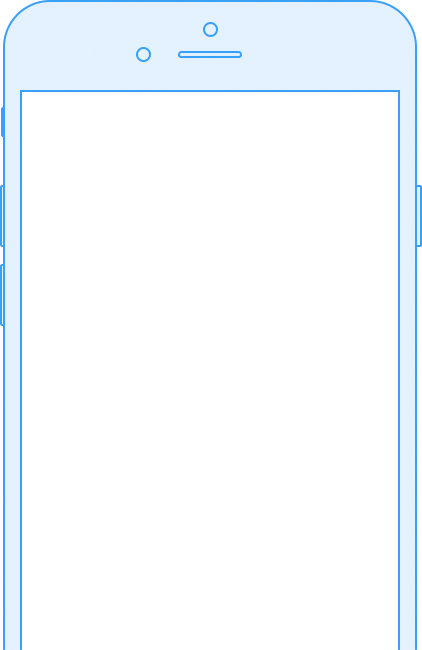
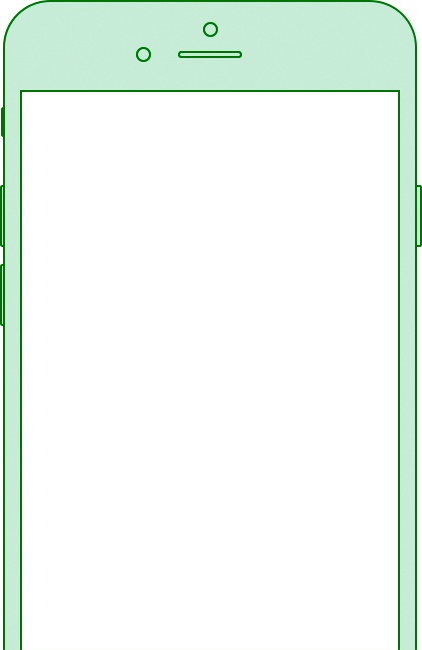
SMS greenish

Changed region(s): [[0.0, 0.0, 1.0, 1.0]]

diff --git a/web/sms/src/components/Home.vue b/web/sms/src/components/Home.vue
@@ -14,7 +14,7 @@
               that never used <b>XRP Text</b> before.
             </p>
 
-            <a href="#learn" class="btn btn-primary btn-lg"><i class="fa fa-info"></i> Learn more</a>
+            <a href="#learn" class="btn btn-success btn-lg"><i class="fa fa-info"></i> Learn more</a>
             <br /><br />&nbsp;
           </div>
           <div class="col-md-8 col-lg-6 text-center">
@@ -130,7 +130,7 @@
             <a name="sample"></a>
             <br />
             <br />
-            <a href="#sample" @click="sampleMsgs=true" class="btn btn-lg btn-primary"><i class="fa fa-search"></i> Sample messages</a>
+            <a href="#sample" @click="sampleMsgs=true" class="btn btn-lg btn-success"><i class="fa fa-search"></i> Sample messages</a>
           </div>
           <div class="col-lg-1 col-sm-2 text-sample" v-if="sampleMsgs"></div>
           <div class="col-lg-4 col-sm-8 text-sample text-left" v-if="sampleMsgs">
@@ -439,16 +439,17 @@ export default {
     .text {
       clear: both;
       max-width: 75%;
-      background-color: lighten( #cfcfcf, 10%);
+      background-color: lighten( #cfcfcf, 12%);
       border-radius: 15px;
       padding: 3px 15px;
       margin-bottom: 15px;
       &.in {
         float: right;
         text-align: right;
+        color: #666;
       }
       &.out {
-        background-color: #E2F1FC;
+        background-color: #EFF8F0;
         float: left;
       }
     }
@@ -462,7 +463,7 @@ export default {
       &.show {
         display: block;
         padding-top: 30px;
-        color: #327EC7;
+        color: #39B950;
         padding-bottom: 50px;
         background-image: none;
       }
@@ -552,7 +553,7 @@ export default {
     padding-top: 40px; padding-bottom: 40px;
     &.jumbotron {
       border-radius: 0; padding-bottom: 0;
-      border-bottom: 1px solid #327EC7;
+      border-bottom: 1px solid #39B950;
       margin-bottom: 0;
       div.phone-container {
         display: block; position: relative;
@@ -595,7 +596,7 @@ export default {
       }
     }
     &.blue {
-      background-color: #327EC7;
+      background-color: #39B950;
       color: #fff;
       a:not(.btn) {
         color: #FC992E;
@@ -606,11 +607,11 @@ export default {
     }
     &.white {
       background-color: #fff;
-      color: #327EC7;
+      color: #39B950;
     }
     &.lightblue {
-      background-color: #E2F1FC;
-      color: #327EC7;
+      background-color: lighten(#CAEACC, 10%);
+      color: #39B950;
     }
     &.dark {
       background-color: #3D3E3F;

diff --git a/web/sms/src/App.vue b/web/sms/src/App.vue
@@ -53,7 +53,7 @@ body {
 
 .footer {
   a {
-    color: #327EC7;
+    color: #39B950;
   }
   position: absolute;
   bottom: 0;
